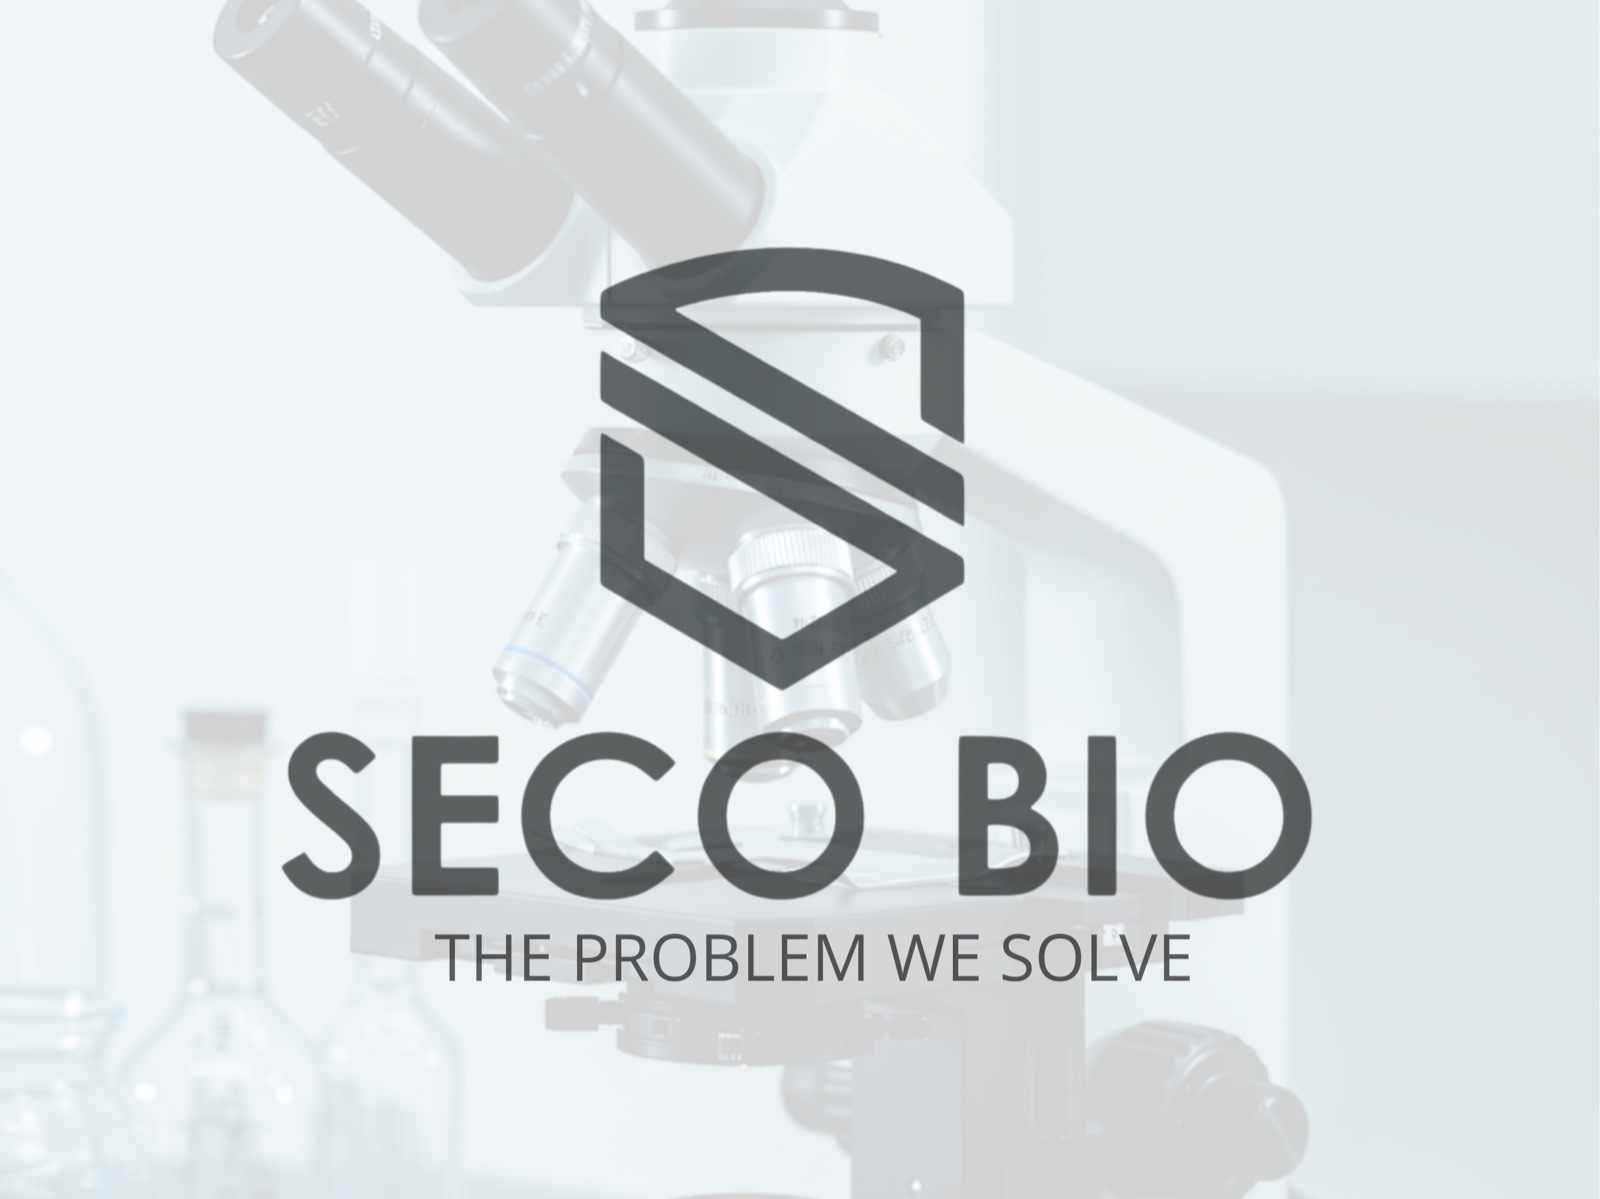
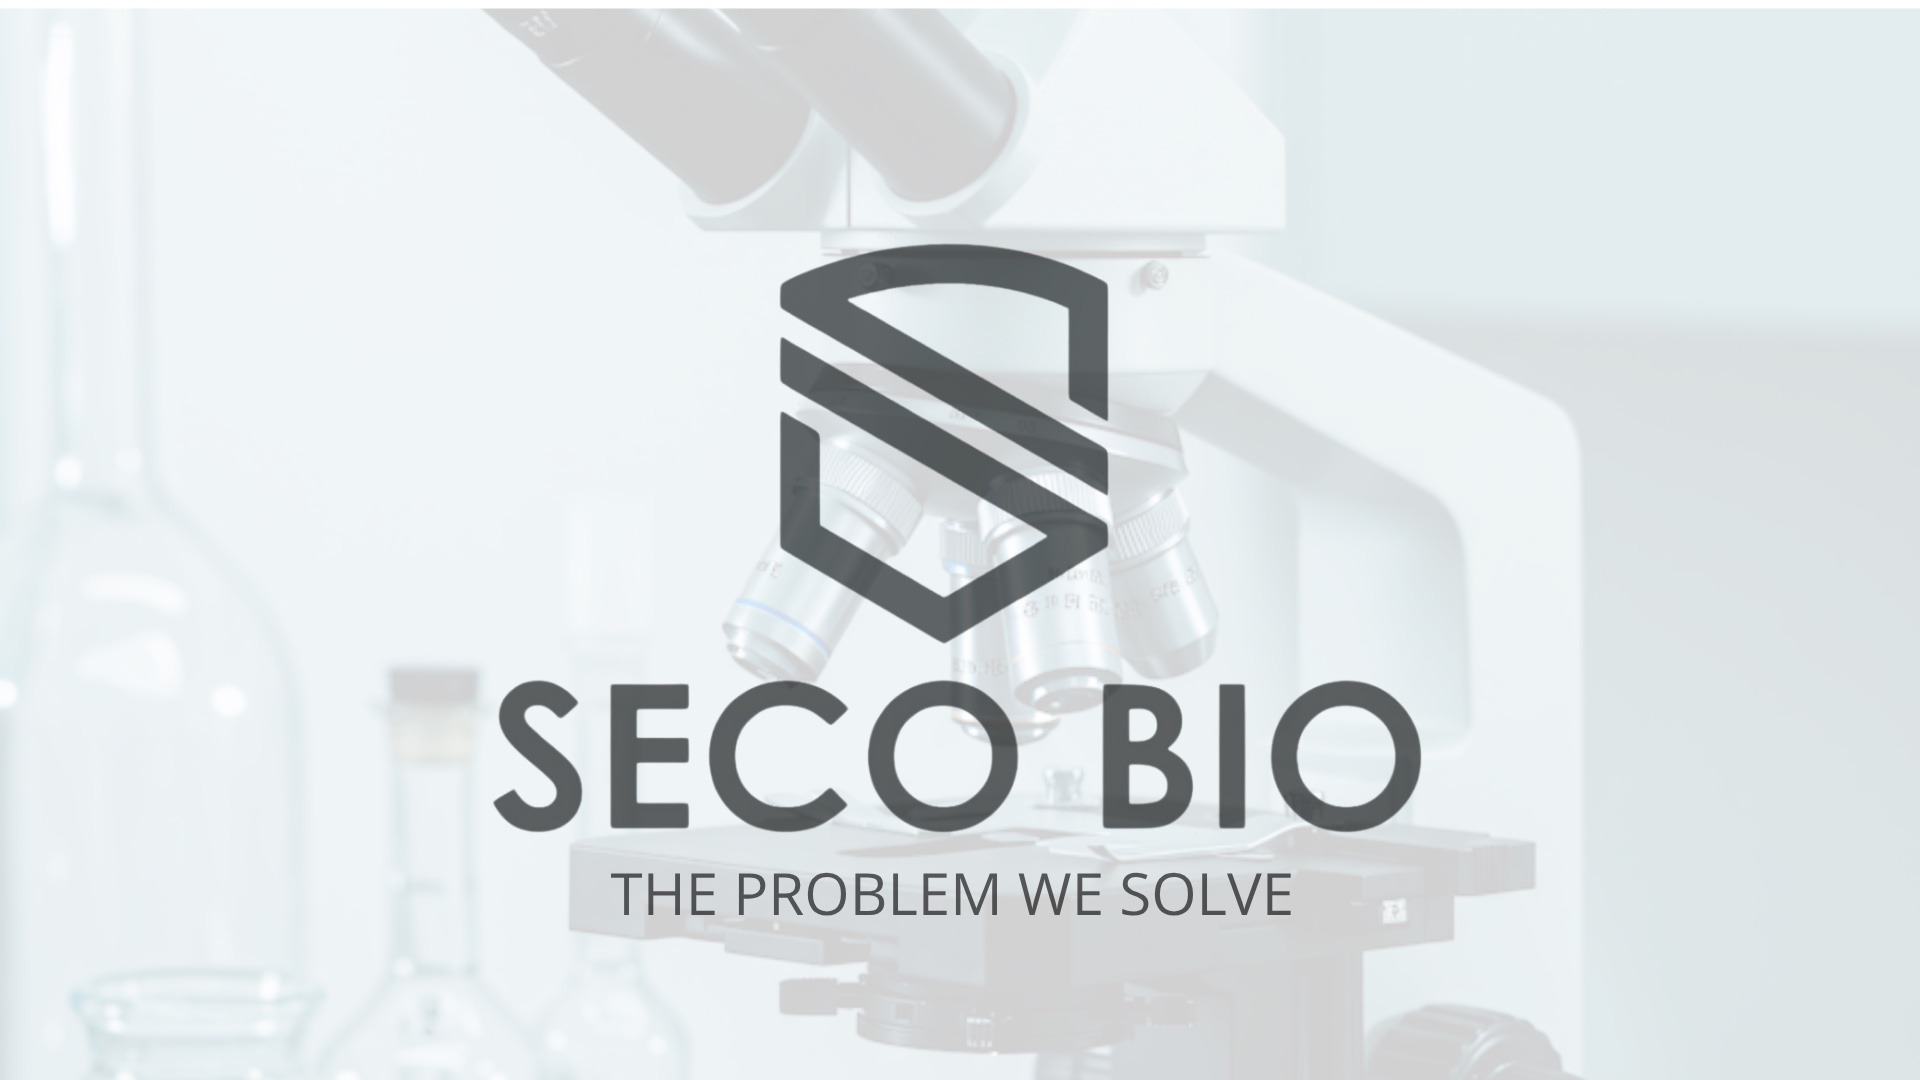
Video modal: hold poster 1s before playing, use properly-cropped thumbnail
Removed the autoPlay attribute and instead start playback manually
after a 1s timeout, so the poster is visible for a beat before the
video cuts in rather than playing the instant the modal appears.

Also swapped in the new thumbnail sized exactly to the video's 1920x1080
16:9 frame (previous one was cropped slightly off).

Changed region(s): [[0.0938, 0.0, 0.8438, 1.0], [0.625, 0.0, 1.0, 0.0306], [0.4062, 0.8861, 0.5312, 1.0]]

diff --git a/components/VideoModal.jsx b/components/VideoModal.jsx
@@ -29,6 +29,15 @@ export default function VideoModal({ onClose }) {
     };
   }, [onClose]);
 
+  useEffect(() => {
+    // Hold on the poster for a beat before playing, instead of cutting
+    // straight to video the instant the modal appears.
+    const timer = setTimeout(() => {
+      videoRef.current?.play().catch(() => {});
+    }, 1000);
+    return () => clearTimeout(timer);
+  }, []);
+
   return (
     <div
       className="fixed inset-0 z-[60] flex items-center justify-center p-4 sm:p-8 modal-fade-in"
@@ -58,7 +67,6 @@ export default function VideoModal({ onClose }) {
           className="w-full rounded-xl"
           style={{ aspectRatio: '16 / 9', backgroundColor: '#000', display: 'block' }}
           controls
-          autoPlay
           muted
           playsInline
           poster="/images/video-poster.jpg"
